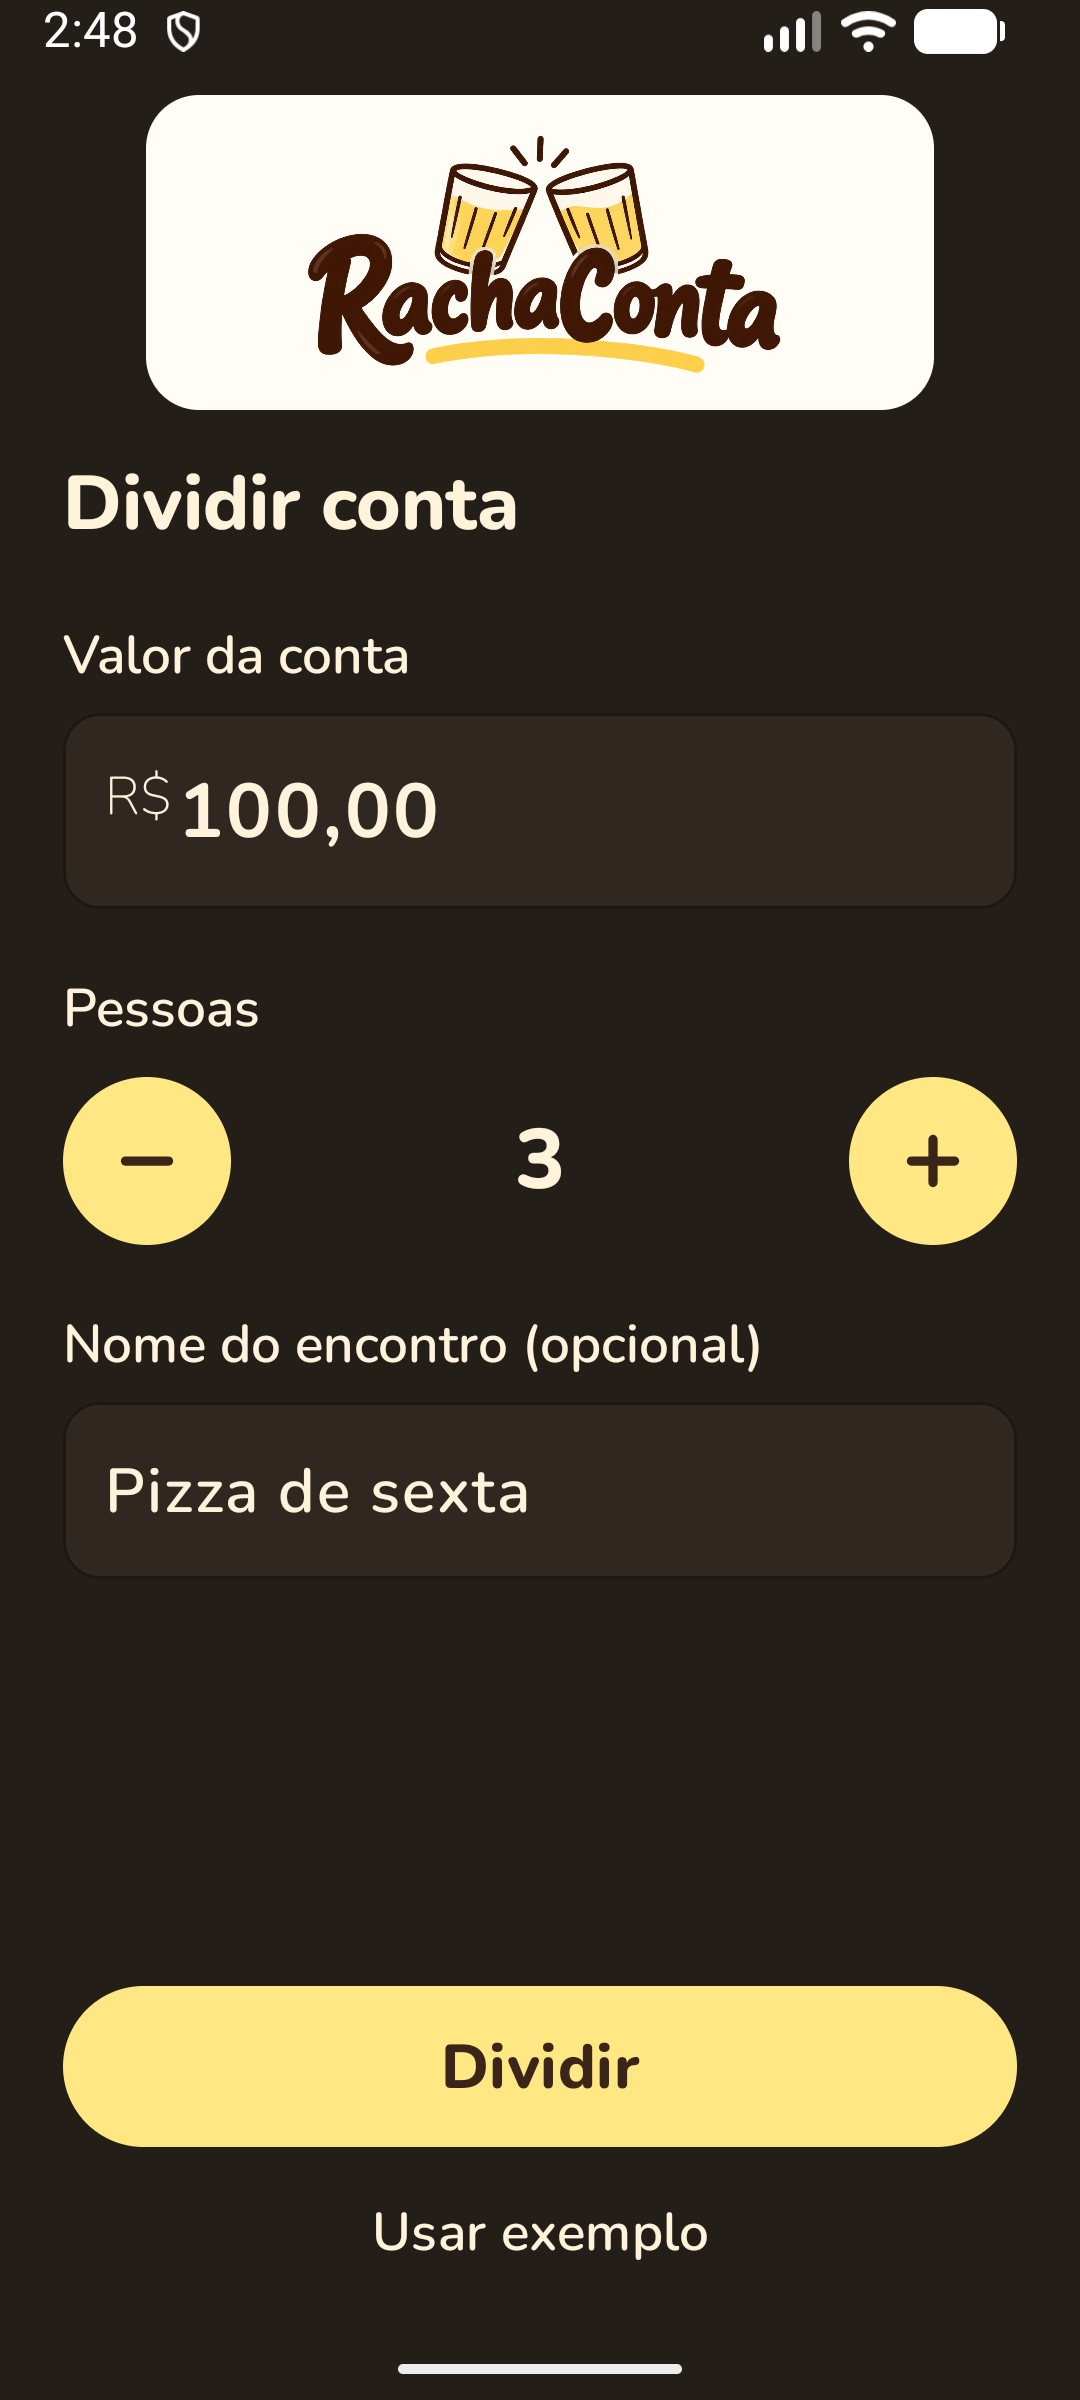
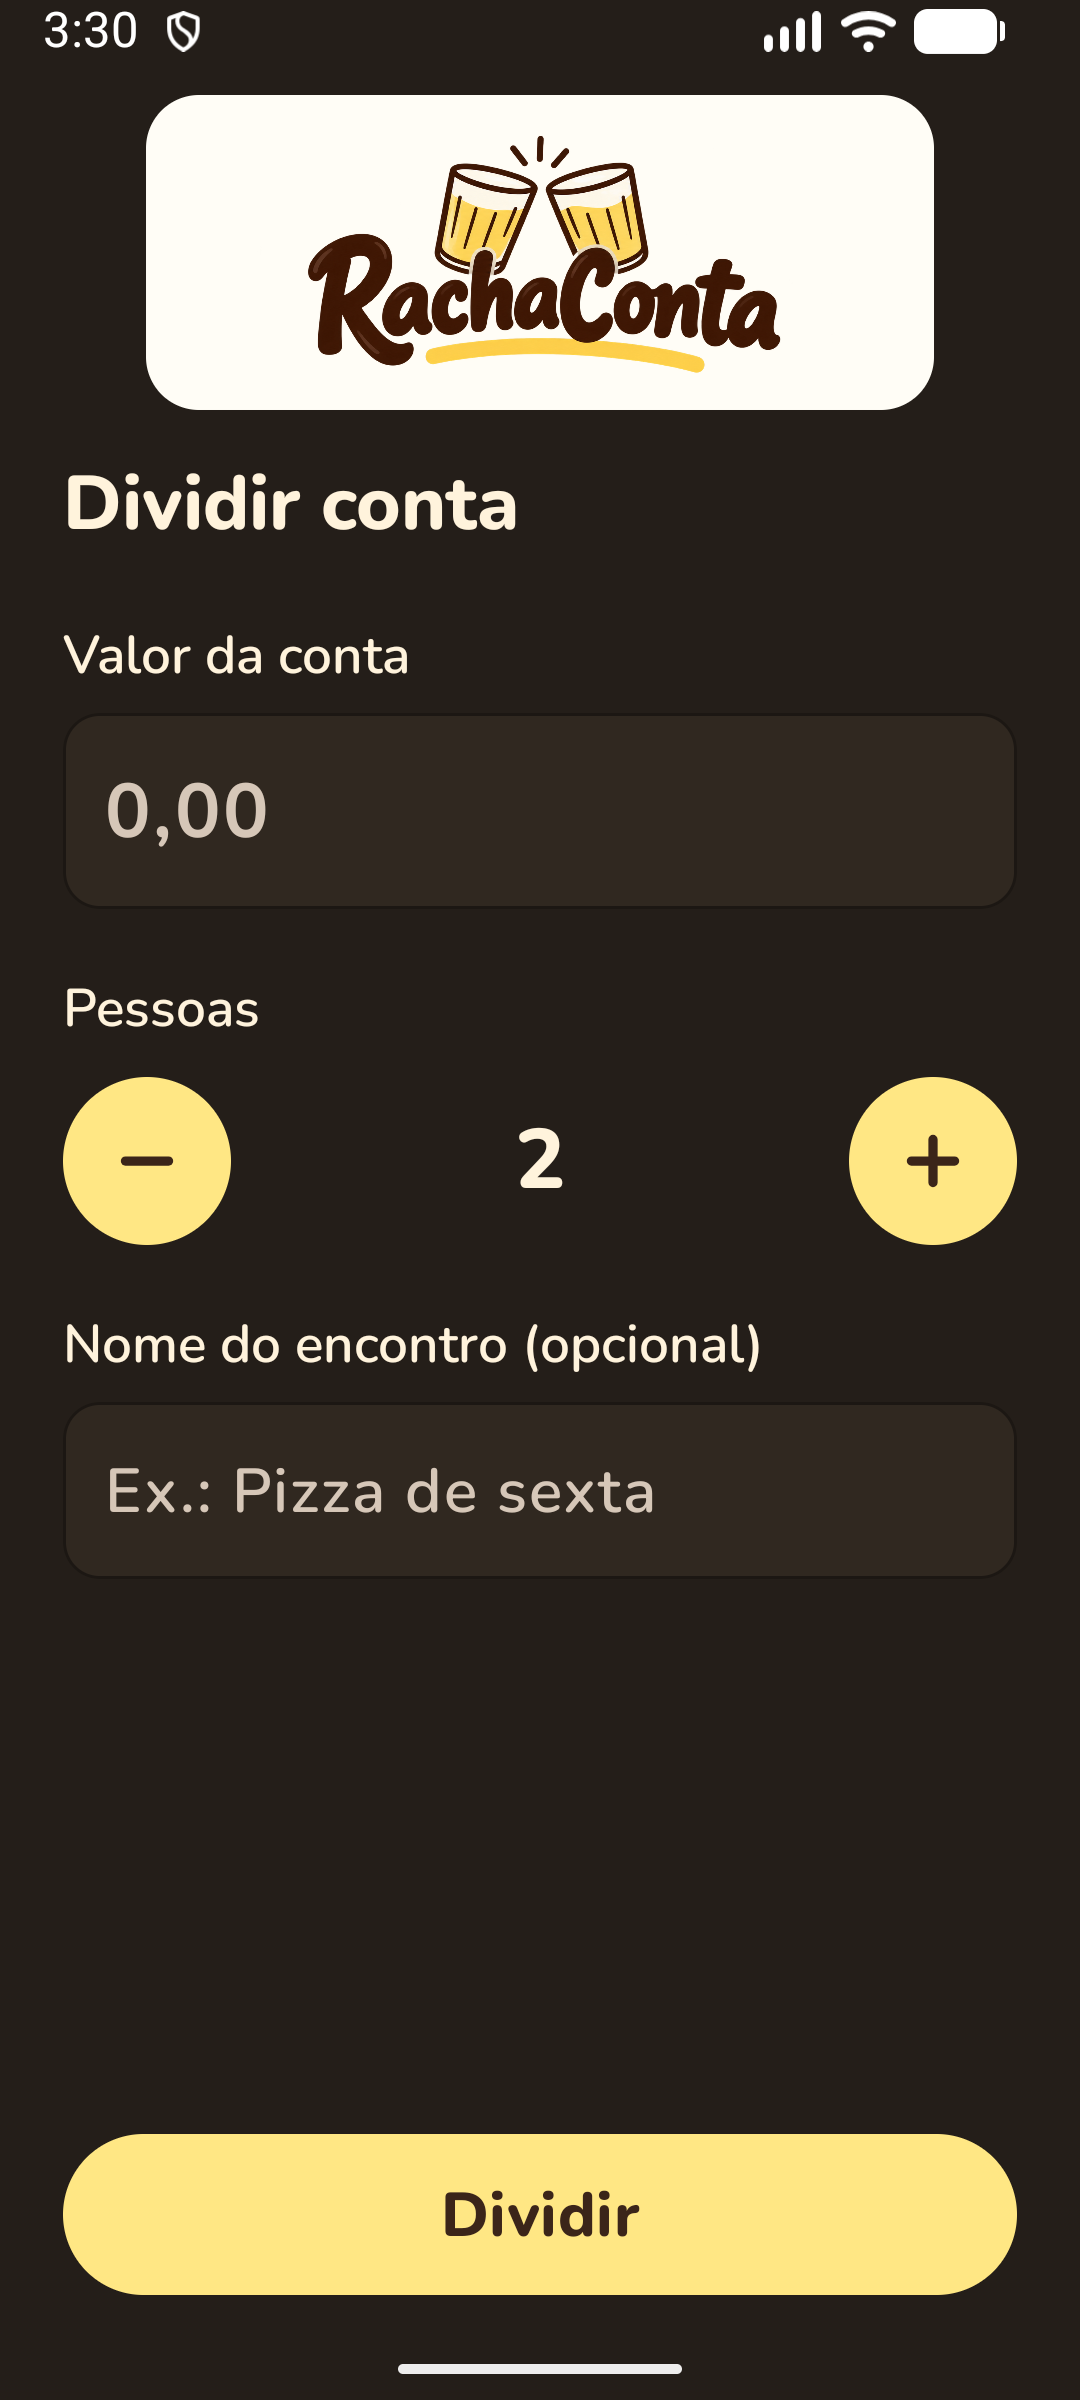
Remove exemplo e valida entrada manual no emulador Android

diff --git a/app/src/main/java/com/fecampos/rachaconta/ui/DividirContaActivity.kt b/app/src/main/java/com/fecampos/rachaconta/ui/DividirContaActivity.kt
@@ -7,11 +7,9 @@ import androidx.core.view.WindowInsetsCompat
 import androidx.core.view.WindowInsetsControllerCompat
 import androidx.core.widget.doAfterTextChanged
 import com.fecampos.rachaconta.R
-import com.fecampos.rachaconta.data.ContasExemplo
 import com.fecampos.rachaconta.databinding.ActivityDividirContaBinding
 import com.fecampos.rachaconta.domain.ValidadorConta
 import com.fecampos.rachaconta.navigation.NavegacaoConta
-import com.fecampos.rachaconta.util.FormatoDinheiro
 
 class DividirContaActivity : AppCompatActivity() {
     private lateinit var binding: ActivityDividirContaBinding
@@ -28,7 +26,6 @@ class DividirContaActivity : AppCompatActivity() {
         binding.lessButton.setOnClickListener { pessoas = (pessoas - 1).coerceAtLeast(1); updateUI() }
         binding.moreButton.setOnClickListener { pessoas = (pessoas + 1).coerceAtMost(50); updateUI() }
         binding.divideButton.setOnClickListener { dividir() }
-        binding.exampleButton.setOnClickListener { usarExemplo() }
         binding.amountInput.doAfterTextChanged { binding.amountLayout.error = null }
         binding.nameInput.doAfterTextChanged { binding.nameLayout.error = null }
         binding.nameInput.setOnEditorActionListener { _, action, _ ->
@@ -42,17 +39,6 @@ class DividirContaActivity : AppCompatActivity() {
         binding.peopleCount.contentDescription = if (pessoas == 1) getString(R.string.one_person) else resources.getQuantityString(R.plurals.people_count, pessoas, pessoas)
         binding.lessButton.isEnabled = pessoas > 1
         binding.moreButton.isEnabled = pessoas < 50
-    }
-
-    private fun usarExemplo() {
-        val conta = ContasExemplo.pizzaDeSexta
-        pessoas = conta.quantidadePessoas
-        binding.amountInput.setText(FormatoDinheiro.paraEntrada(conta.valorCentavos))
-        binding.nameInput.setText(conta.nomeEncontro)
-        binding.amountInput.clearFocus()
-        binding.nameInput.clearFocus()
-        WindowInsetsControllerCompat(window, binding.root).hide(WindowInsetsCompat.Type.ime())
-        updateUI()
     }
 
     private fun dividir() {

diff --git a/app/src/androidTest/java/com/fecampos/rachaconta/FluxoTest.kt b/app/src/androidTest/java/com/fecampos/rachaconta/FluxoTest.kt
@@ -28,10 +28,16 @@ class FluxoTest {
 
     private fun resultado(conta: Conta): Intent = NavegacaoConta.resultado(ApplicationProvider.getApplicationContext<Context>(), conta)
 
-    @Test fun exemploNavegaConfirmaEVoltaMantendoDados() {
+    private fun preencherConta() {
+        onView(withId(R.id.amount_input)).perform(scrollTo(), replaceText("100,00"), closeSoftKeyboard())
+        onView(withId(R.id.more_button)).perform(scrollTo(), click())
+        onView(withId(R.id.name_input)).perform(scrollTo(), replaceText("Pizza de sexta"), closeSoftKeyboard())
+    }
+
+    @Test fun entradaManualNavegaConfirmaEVoltaMantendoDados() {
         ActivityScenario.launch(DividirContaActivity::class.java).use {
-            onView(withId(R.id.example_button)).perform(scrollTo(), click())
-            onView(withId(R.id.divide_button)).perform(scrollTo(), click())
+            preencherConta()
+            onView(withId(R.id.name_input)).perform(pressImeActionButton())
             onView(withId(R.id.total_value)).check(matches(withText("R$ 100,00")))
             onView(withId(R.id.paid_count)).check(matches(withText("0 de 3 pagos")))
             onView(checkPessoa(1)).perform(click())
@@ -63,7 +69,7 @@ class FluxoTest {
     }
     @Test fun formularioPreservaCamposNaRecriacao() {
         ActivityScenario.launch(DividirContaActivity::class.java).use { scenario ->
-            onView(withId(R.id.example_button)).perform(scrollTo(), click())
+            preencherConta()
             scenario.recreate()
             onView(withId(R.id.amount_input)).check(matches(withText("100,00")))
             onView(withId(R.id.name_input)).check(matches(withText("Pizza de sexta")))

diff --git a/app/src/main/java/com/fecampos/rachaconta/domain/CalculadoraRateio.kt b/app/src/main/java/com/fecampos/rachaconta/domain/CalculadoraRateio.kt
@@ -9,6 +9,7 @@ object CalculadoraRateio {
         val base = conta.valorCentavos / conta.quantidadePessoas
         val resto = (conta.valorCentavos % conta.quantidadePessoas).toInt()
         // Os centavos extras ficam no final, com atribuição estável por pessoa.
+        // Participantes fictícios locais, exibidos como Pessoa 1 até Pessoa N.
         val parcelas = List(conta.quantidadePessoas) { indice ->
             val adicional = if (indice >= conta.quantidadePessoas - resto) 1L else 0L
             ParcelaPessoa(id = indice + 1, valorCentavos = base + adicional)

diff --git a/app/src/test/java/com/fecampos/rachaconta/RateioTest.kt b/app/src/test/java/com/fecampos/rachaconta/RateioTest.kt
@@ -57,7 +57,6 @@ class RateioTest {
     @Test fun formataEmReaisComCentavos() {
         assertEquals("R$ 33,33", FormatoDinheiro.formatar(3333))
         assertEquals("R$ 99.999,99", FormatoDinheiro.formatar(9999999))
-        assertEquals("100,00", FormatoDinheiro.paraEntrada(10000))
     }
     @Test fun nomeAusenteENormalizado() {
         assertNull(ValidadorConta.validar("100", 3, "  ").conta?.nomeEncontro)

diff --git a/app/src/main/java/com/fecampos/rachaconta/util/FormatoDinheiro.kt b/app/src/main/java/com/fecampos/rachaconta/util/FormatoDinheiro.kt
@@ -25,5 +25,4 @@ object FormatoDinheiro {
         return "R$ " + formato.format(BigDecimal.valueOf(centavos, 2))
     }
 
-    fun paraEntrada(centavos: Long): String = BigDecimal.valueOf(centavos, 2).toPlainString().replace('.', ',')
 }

diff --git a/docs/VALIDACAO.md b/docs/VALIDACAO.md
@@ -9,6 +9,10 @@ Data: 09/10/2026. Escopo: etapa 1 da avaliação parcial, com Kotlin e Android V
 - Emulador Medium_Phone, Android 17/API 37.1, arm64, 1080 × 2400 px.
 - Fonte do sistema em 100% e 130%, temas claro/escuro e orientação vertical/horizontal.
 
+## Simplificação do formulário
+
+A ação Usar exemplo foi removida, incluindo botão XML, listener, preenchimento automático e recurso textual. Os testes de fluxo agora preenchem os campos manualmente e confirmam a ação do teclado virtual Android. Os participantes fictícios locais permanecem como dados simulados; o escopo da etapa 1 continua completo.
+
 ## Verificações automatizadas
 
 | Verificação | Resultado |
@@ -20,7 +24,7 @@ Data: 09/10/2026. Escopo: etapa 1 da avaliação parcial, com Kotlin e Android V
 
 Os testes locais verificam a soma exata em centavos, diferenças de no máximo um centavo entre parcelas, 300 combinações de valores/grupos, limites, entradas enormes sem overflow, nome opcional e atualização imutável de pagamento.
 
-Os testes instrumentados verificam entrada inválida, exemplo, Intent com dados, divisão, marcar/desmarcar, voltar com campos preservados, recriação das duas telas, uma pessoa, nome ausente e 50 pessoas com rolagem/reciclagem das linhas. IDs estáveis preservam a marcação da pessoa correta ao rolar.
+Os testes instrumentados verificam entrada inválida, preenchimento manual, Intent com dados, divisão, marcar/desmarcar, voltar com campos preservados, recriação das duas telas, uma pessoa, nome ausente e 50 pessoas com rolagem/reciclagem das linhas. IDs estáveis preservam a marcação da pessoa correta ao rolar.
 
 Comandos:
 
@@ -33,11 +37,11 @@ Comandos:
 
 | Estado | Evidência |
 | --- | --- |
-| Formulário vazio e preenchido | [vazio](screenshots/formulario-vazio.png), [exemplo](screenshots/formulario.png) |
+| Formulário simplificado | [formulário](screenshots/formulario-vazio.png) |
 | Parcelas e confirmação individual à direita | [resultado](screenshots/resultado.png) |
 | Texto ampliado em 130% | [resultado](screenshots/resultado-fonte-130.png) |
 | Tema escuro com check marcado e legível | [resultado](screenshots/resultado-escuro.png), [formulário](screenshots/formulario-escuro-fonte-130.png) |
-| Entrada com teclado aberto | [teclado](screenshots/formulario-teclado.png) |
+| Entrada manual e confirmação no teclado virtual | Teste instrumentado entradaManualNavegaConfirmaEVoltaMantendoDados |
 | Rotação e ações acessíveis | [horizontal](screenshots/resultado-horizontal.png) |
 | Grupo grande e pagamento da última pessoa | [lista](screenshots/resultado-50-pessoas.png), [pessoa 50](screenshots/resultado-50-pessoas-final.png) |
 
@@ -47,7 +51,7 @@ A revisão independente do design teve veredito **ship** após verificar fidelid
 
 ## Reprodução independente
 
-O projeto foi clonado do repositório Git para uma pasta nova, sem local.properties, caches ou builds copiados. Com JAVA_HOME e ANDROID_HOME apontando para JDK/SDK instalados, o Gradle gerou o APK e executou testes locais, lint e os sete testes instrumentados. Nenhuma edição de código ou configuração versionada foi necessária. O teste de regressão adicional para valores enormes também integra a validação final.
+Na validação inicial, o projeto foi clonado do repositório Git para uma pasta nova, sem local.properties, caches ou builds copiados. Com JAVA_HOME e ANDROID_HOME apontando para JDK/SDK instalados, o Gradle gerou o APK e executou testes locais, lint e os sete testes instrumentados. Nenhuma edição de código ou configuração versionada foi necessária. Após remover Usar exemplo, compilação, testes unitários, lint e os sete testes instrumentados foram executados novamente no emulador Android. O teste de regressão para valores enormes também integra a suíte atual.
 
 ## Limites observados
 

diff --git a/docs/GUIA_IMPLEMENTACAO.md b/docs/GUIA_IMPLEMENTACAO.md
@@ -48,7 +48,7 @@ Cores e proporções finais devem ser amostradas da referência aprovada. As med
 
 ## Organização de código
 
-- ui/DividirContaActivity.kt: formulário, exemplo, pessoas, validação e abertura do resultado.
+- ui/DividirContaActivity.kt: formulário, pessoas, validação e abertura do resultado.
 - ui/ResultadoActivity.kt: recebe os dados, apresenta parcelas, pagamentos e retorno para edição.
 - ui/ParcelaPessoaAdapter.kt: linha reutilizável, binding e evento de confirmação por id estável.
 - model/Conta.kt: valorCentavos, quantidadePessoas e nomeEncontro opcional; propriedades val.
@@ -58,14 +58,14 @@ Cores e proporções finais devem ser amostradas da referência aprovada. As med
 - domain/ValidadorConta.kt: limites e entradas válidas.
 - util/FormatoDinheiro.kt: conversão/formatacão brasileira sem usar Double no cálculo.
 - navigation/NavegacaoConta.kt: chaves e passagem dos dados da Intent.
-- data/ContasExemplo.kt: exemplo local para atender ao requisito de mocks.
+- CalculadoraRateio cria participantes fictícios locais, apresentados como Pessoa 1 até Pessoa N, atendendo ao uso de dados simulados.
 
 Estado permanece nas Activities e em savedInstanceState nesta etapa; não há necessidade de ViewModel, Repository ou banco de dados. Sem variáveis globais para conta ou pagamento.
 
 ## Comportamento a implementar
 
 - Formulário inicia vazio, com 2 pessoas; nome vazio vira null.
-- Usar exemplo preenche R$ 100,00, 3 pessoas e Pizza de sexta.
+- Entrada manual de R$ 100,00, 3 pessoas e Pizza de sexta.
 - Dividir valida as entradas e abre ResultadoActivity por Intent explícita.
 - O resultado calcula 33,33 + 33,33 + 33,34 para o exemplo e começa com todas as pessoas pendentes.
 - O primeiro pago mostrado no mock apenas ilustra o estado confirmado.

diff --git a/.impeccable/surfaces/app-src-main-res-layout-activity-dividir-conta-xml.md b/.impeccable/surfaces/app-src-main-res-layout-activity-dividir-conta-xml.md
@@ -17,7 +17,7 @@ OWN-WORLD: creme e amarelo manteiga, texto marrom, letreiro popular com copos am
 
 STORY: a pessoa informa conta e participantes, confere parcelas e marca os pagamentos; o contador acompanha sem movimentar dinheiro.
 
-FIRST VIEWPORT: formulário com logo, título, valor, seletor de pessoas, nome opcional e ações inferiores. Resultado com voltar, nome, total, lista na ordem pessoa/estado → parcela → check à direita e botão de editar. A lista rola independentemente da ação de editar. Horizontal usa resumo à esquerda e lista à direita, preservando a ordem de leitura de cada bloco.
+FIRST VIEWPORT: formulário com logo, título, valor, seletor de pessoas, nome opcional e ação Dividir inferior. Resultado com voltar, nome, total, lista na ordem pessoa/estado → parcela → check à direita e botão de editar. A lista rola independentemente da ação de editar. Horizontal usa resumo à esquerda e lista à direita, preservando a ordem de leitura de cada bloco.
 
 FORM: Mesa de amigos, primeira proposta exibida, refinada em mesa-v5; seed key 910c1d83; direção boteco-brasileiro determinada pelo usuário, com prioridade sobre o sorteio.
 

diff --git a/DESIGN.md b/DESIGN.md
@@ -77,9 +77,6 @@ components:
     textColor: "{colors.brown}"
     typography: "{typography.action}"
     rounded: "{rounded.action}"
-  button-text:
-    textColor: "{colors.brown}"
-    typography: "{typography.label}"
   stepper-button:
     backgroundColor: "{colors.yellow}"
     textColor: "{colors.brown}"
@@ -196,7 +193,7 @@ O suporte claro do logo tem raio de 20dp e cor diurna fixa, inclusive no tema es
 
 A ação é ampla, amigável e firme: amarelo manteiga, tinta marrom diurna e texto `action`. `Widget.RachaConta.Action` fornece o raio, a altura mínima e o padding vertical. Dividir e Editar conta são usos do mesmo componente.
 
-O botão de texto Usar exemplo usa Nunito de 16sp, peso 600, texto principal e mínimo de 48dp. Ripple, foco, estados pressionado e desabilitado seguem os controles Material; não há estado hover customizado no código.
+O formulário apresenta somente a ação Dividir. Ripple, foco, estados pressionado e desabilitado seguem os controles Material; não há estado hover customizado no código.
 
 ### Inputs / Fields
 

diff --git a/docs/ARQUITETURA.md b/docs/ARQUITETURA.md
@@ -25,6 +25,10 @@ Conta e ParcelaPessoa possuem propriedades val. ResultadoRateio.marcarPagamento 
 
 onSaveInstanceState salva entradas no formulário e ids pagos no resultado. O Android também restaura o estado da lista. Ao dividir novamente, nasce outro resultado, com todos pendentes. Não há persistência entre encerramentos do processo.
 
+## Dados simulados
+
+Os participantes são fictícios: CalculadoraRateio cria ids de 1 até N; o adapter usa esses ids para exibir Pessoa 1, Pessoa 2 etc. Não há cadastro de pessoas nem consulta externa. O valor e a quantidade vêm do formulário; as parcelas são calculadas em centavos. A ação de preencher uma conta de exemplo foi removida a pedido do usuário.
+
 ## Lista e eventos
 
 Cada linha é component_parcela_pessoa.xml inflado com ViewBinding. Pessoa/estado ficam à esquerda, valor no meio e checkbox no extremo direito. Tocando a linha, performClick encaminha a ação ao checkbox.
